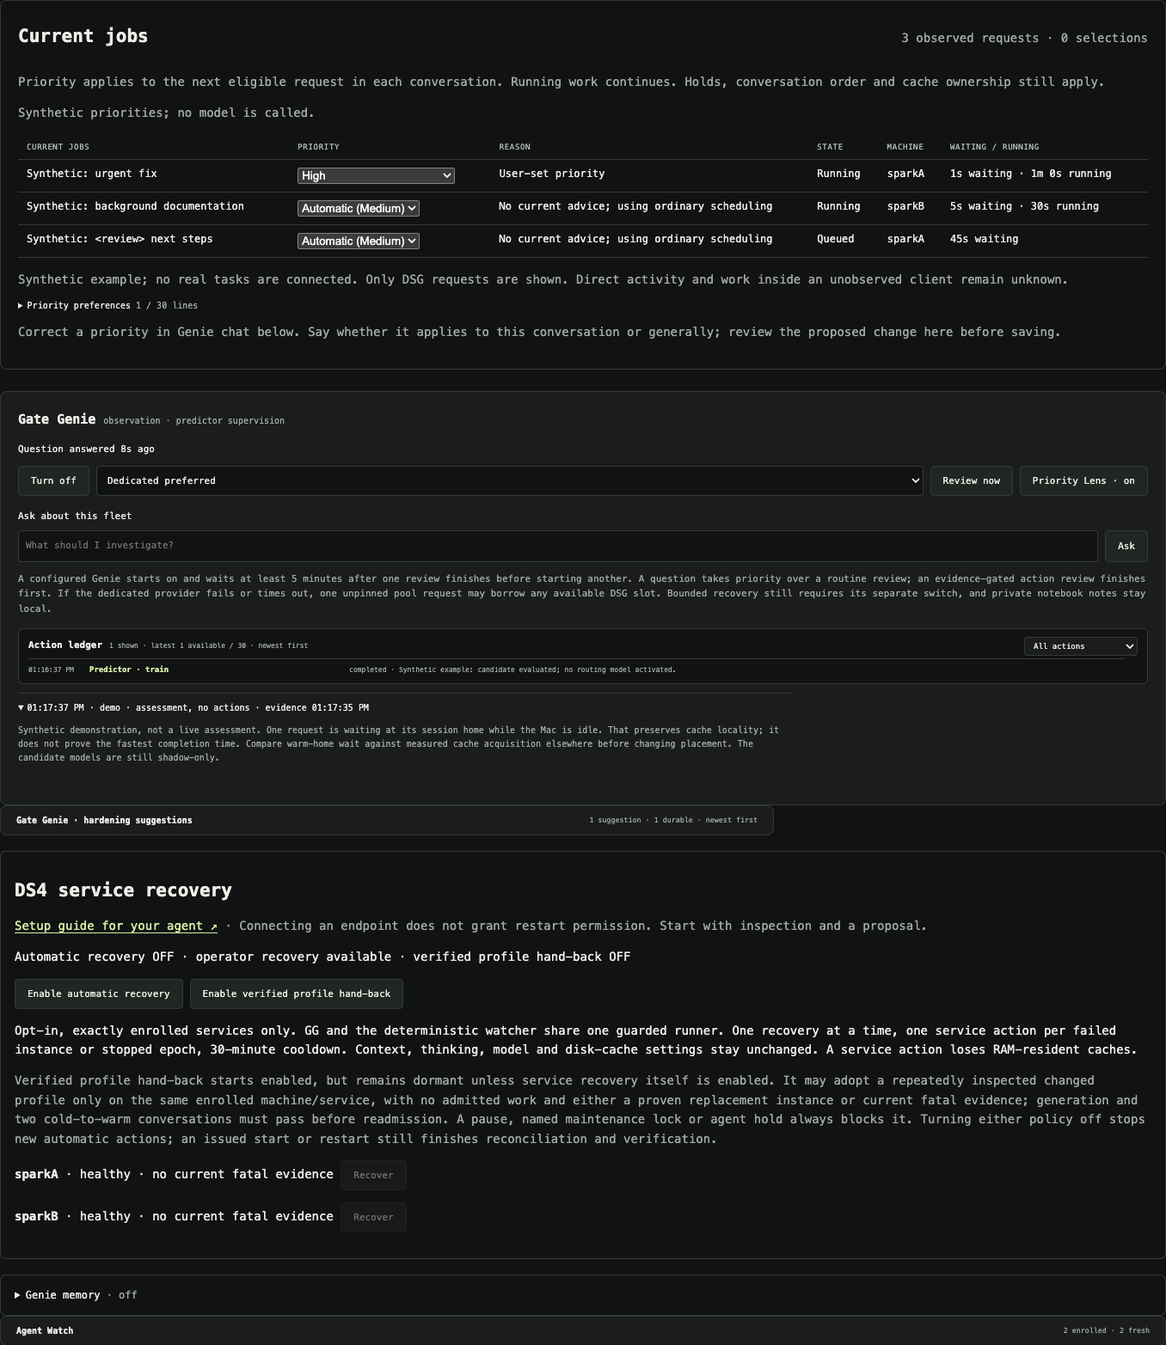
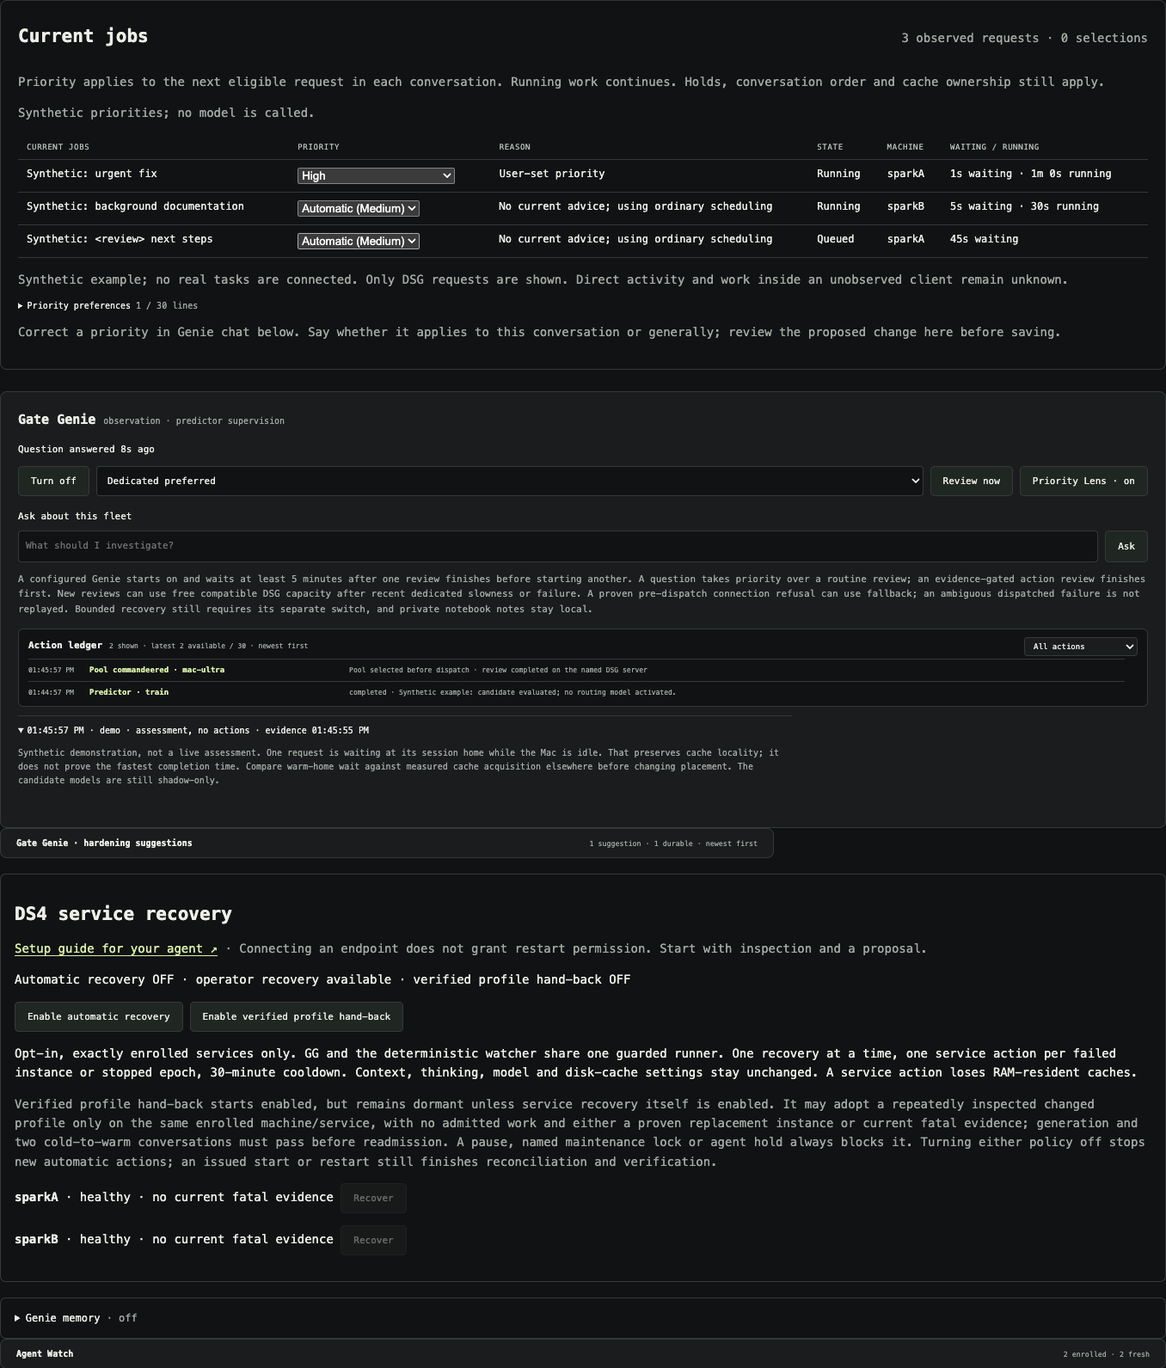
Assign new Genie reviews to available pool capacity safely

diff --git a/ds4-gateway/ui/index.html b/ds4-gateway/ui/index.html
@@ -36,7 +36,7 @@
 <section id="priority-correction" class="priority-correction" aria-labelledby="priority-correction-title" hidden><h3 id="priority-correction-title">Genie’s proposed correction</h3><p id="priority-correction-explanation"></p><div id="priority-correction-changes"></div><p id="priority-correction-status" class="muted"></p><div class="genie-controls"><button id="priority-correction-confirm" class="button" type="button">Confirm correction</button><button id="priority-correction-reply" class="button" type="button" hidden>Answer in Genie chat</button><button id="priority-correction-dismiss" class="button" type="button">Dismiss proposal</button></div></section>
 <p id="priority-message" role="status"></p>
 </section>
-<section class="insights genie-insights"><article class="genie-panel"><h2>Gate Genie <small id="genie-mode">observation only</small></h2><p id="genie-status" role="status">Checking connection</p><div class="genie-controls"><button id="genie-toggle" class="button" type="button" disabled>Enable</button><select id="genie-source" aria-label="Gate Genie inference source" disabled><option value="primary">Dedicated preferred</option><option value="pool">DSG pool only</option></select><button id="genie-review" class="button" type="button" disabled>Review now</button><button id="priority-toggle" class="button" type="button" disabled aria-pressed="false">Priority Lens · checking</button></div><form id="genie-chat"><label for="genie-question">Ask about this fleet</label><div class="genie-controls"><input id="genie-question" maxlength="2000" placeholder="What should I investigate?" autocomplete="off"><button id="genie-send" type="submit" class="button" disabled>Ask</button></div></form><p class="muted">A configured Genie starts on and waits at least 5 minutes after one review finishes before starting another. A question takes priority over a routine review; an evidence-gated action review finishes first. If the dedicated provider fails or times out, one unpinned pool request may borrow any available DSG slot. Bounded recovery still requires its separate switch, and private notebook notes stay local.</p><section id="genie-action-ledger" class="genie-action-ledger" aria-labelledby="genie-action-ledger-title" title="Proven executor receipts and provider fallbacks only. Recovery and predictor history is durable; queue history is bounded; provider fallback covers this dashboard run."><div class="genie-ledger-heading"><div><h3 id="genie-action-ledger-title">Action ledger</h3><p id="genie-action-summary" class="muted">No evidenced Genie actions yet</p></div><label><span class="visually-hidden">Filter Gate Genie actions</span><select id="genie-action-filter" aria-label="Filter Gate Genie actions"><option value="all">All actions</option><option value="provider">Pool commandeering</option><option value="recovery">Recovery</option><option value="routing">Queue moves</option><option value="predictor">Predictor</option><option value="attention">Needs attention</option></select></label></div><ol id="genie-action-items" class="genie-action-items" tabindex="0" aria-label="Latest 30 available Genie actions, newest first"><li class="muted">Waiting for action evidence.</li></ol></section><div id="genie-reports" aria-live="polite"></div></article></section>
+<section class="insights genie-insights"><article class="genie-panel"><h2>Gate Genie <small id="genie-mode">observation only</small></h2><p id="genie-status" role="status">Checking connection</p><div class="genie-controls"><button id="genie-toggle" class="button" type="button" disabled>Enable</button><select id="genie-source" aria-label="Gate Genie inference source" disabled><option value="primary">Dedicated preferred</option><option value="pool">DSG pool only</option></select><button id="genie-review" class="button" type="button" disabled>Review now</button><button id="priority-toggle" class="button" type="button" disabled aria-pressed="false">Priority Lens · checking</button></div><form id="genie-chat"><label for="genie-question">Ask about this fleet</label><div class="genie-controls"><input id="genie-question" maxlength="2000" placeholder="What should I investigate?" autocomplete="off"><button id="genie-send" type="submit" class="button" disabled>Ask</button></div></form><p class="muted">A configured Genie starts on and waits at least 5 minutes after one review finishes before starting another. A question takes priority over a routine review; an evidence-gated action review finishes first. New reviews can use free compatible DSG capacity after recent dedicated slowness or failure. A proven pre-dispatch connection refusal can use fallback; an ambiguous dispatched failure is not replayed. Bounded recovery still requires its separate switch, and private notebook notes stay local.</p><section id="genie-action-ledger" class="genie-action-ledger" aria-labelledby="genie-action-ledger-title" title="Proven executor receipts and provider fallbacks only. Recovery and predictor history is durable; queue history is bounded; provider fallback covers this dashboard run."><div class="genie-ledger-heading"><div><h3 id="genie-action-ledger-title">Action ledger</h3><p id="genie-action-summary" class="muted">No evidenced Genie actions yet</p></div><label><span class="visually-hidden">Filter Gate Genie actions</span><select id="genie-action-filter" aria-label="Filter Gate Genie actions"><option value="all">All actions</option><option value="provider">Pool commandeering</option><option value="recovery">Recovery</option><option value="routing">Queue moves</option><option value="predictor">Predictor</option><option value="attention">Needs attention</option></select></label></div><ol id="genie-action-items" class="genie-action-items" tabindex="0" aria-label="Latest 30 available Genie actions, newest first"><li class="muted">Waiting for action evidence.</li></ol></section><div id="genie-reports" aria-live="polite"></div></article></section>
 <details id="genie-hardening" class="genie-hardening" hidden><summary><span>Gate Genie · hardening suggestions</span><small id="genie-hardening-status">No evidence-backed suggestions yet</small></summary><p class="muted">Private developer hypotheses distilled from bounded DSG failure evidence. Newest first. They do not change routing, servers or configuration.</p><div id="genie-hardening-items" aria-live="polite"></div></details>
 <section class="worker-management" aria-labelledby="recovery-title"><h2 id="recovery-title">DS4 service recovery</h2>
 <p class="muted"><a id="recovery-enrollment-guide" href="https://github.com/JordiPosthumus/dwarf-star-gate/blob/main/docs/agent-recovery-enrollment.md" target="_blank" rel="noopener noreferrer">Setup guide for your agent ↗</a> · Connecting an endpoint does not grant restart permission. Start with inspection and a proposal.</p>

diff --git a/ds4-gateway/ui/ui.js b/ds4-gateway/ui/ui.js
@@ -771,10 +771,10 @@ function renderGenieReports(reports = []) {
 function genieActionRows(snapshot,genie,analytics) {
   const clean=value=>String(value??'').replaceAll('_',' ').replace(/\s+/g,' ').trim().slice(0,240);
   const rows=[];
-  for(const report of genie?.provider_actions??genie?.reports??[])if(report.served_by==='pool_fallback'&&Number.isFinite(report.time))rows.push({
+  for(const report of genie?.provider_actions??genie?.reports??[])if(['pool_fallback','pool_assigned'].includes(report.served_by)&&Number.isFinite(report.time))rows.push({
     id:`provider:${report.id}`,kind:'provider',at:report.time,level:'good',
     title:`Pool commandeered${report.served_on?` · ${clean(report.served_on)}`:''}`,
-    detail:`Dedicated provider unavailable · review completed${report.served_on?' on the named DSG server':' on an unpinned DSG slot; exact server unproven'}`
+    detail:`${report.served_by==='pool_assigned'?'Pool selected before dispatch':'Dedicated provider unavailable'} · review completed${report.served_on?' on the named DSG server':' on an unpinned DSG slot; exact server unproven'}`
   });
   for(const op of snapshot?.gateway?.recovery?.operations??[])if(op.actor==='genie'&&Number.isFinite(op.updated_at??op.created_at)){
     const state=clean(op.state),good=['recovered','verified paused'].includes(state),attention=['failed','reconciliation needed'].includes(state);
@@ -798,7 +798,7 @@ function renderGenieActionLedger() {
   const rows=genieActionRows(wireSnapshot,genieState,analyticsState),filter=$('genie-action-filter')?.value??'all';
   const visible=rows.filter(row=>filter==='all'?true:filter==='attention'?row.level==='attention':row.kind===filter),attention=rows.filter(row=>row.level==='attention').length;
   $('genie-action-summary').textContent=rows.length?`${visible.length} shown · latest ${rows.length} available / 30 · newest first${attention?` · ${attention} need attention`:''}`:'No evidenced Genie actions yet';
-  const storageError=genieState?.provider_action_storage?.error;
+  const storageError=genieState?.provider_action_storage?.error||genieState?.provider_assignment_storage?.error;
   if(storageError)$('genie-action-summary').textContent+=' · pool history not saved';
   $('genie-action-summary').title=storageError?'Pool action storage needs attention; new receipts remain session-only. Inspect Genie status. Nothing was deleted.':'';
   const signature=JSON.stringify([filter,visible]);if(signature===genieLedgerSignature)return;
@@ -926,9 +926,9 @@ async function genieAction(input) {
 async function loadGenie() {
   try {const r=await fetch('/api/genie',{signal:AbortSignal.timeout(5000)});if(!r.ok)throw new Error();const s=await r.json();genieToken=s.csrf_token;genieState=s;wireState={...s.ticker,provider_attempts:s.provider_attempts};
     if(wireSnapshot)renderHealthWire(wireSnapshot);
-    const now=Date.now(),activeProvider=s.active_provider==='pool_fallback'?'DSG pool fallback':s.active_provider==='pool'?'DSG pool':'dedicated provider',providerProgress=s.busy&&s.provider_started_at?`${activeProvider} · ${age(s.provider_started_at,now)} elapsed${s.provider_deadline_at?` · deadline in ${remaining(s.provider_deadline_at,now)}`:''}`:null;
+    const now=Date.now(),activeProvider=s.active_provider==='pool_fallback'?'DSG pool fallback':['pool','pool_assigned'].includes(s.active_provider)?'DSG pool':'dedicated provider',providerProgress=s.busy&&s.provider_started_at?`${activeProvider} · ${age(s.provider_started_at,now)} elapsed${s.provider_deadline_at?` · deadline in ${remaining(s.provider_deadline_at,now)}`:''}`:null;
     const q=s.question,qtext=q?.state==='queued'?(s.review_kind==='action'?'Your question is queued behind an evidence-gated action review':'Your question is queued; a routine review is being yielded'):q?.state==='answering'?`Answering your question · ${providerProgress??'provider starting…'}`:q?.state==='answered'?`Question answered ${age(q.finished_at,now)}`:['failed','cancelled'].includes(q?.state)?`Question ${q.state}: ${q.error}`:null;
-    const provider=s.last_served_by==='pool_fallback'?' · dedicated provider failed; last review borrowed a DSG pool slot':s.last_served_by==='pool'?' · last review used the DSG pool':s.last_served_by==='dedicated'?' · last review used the dedicated provider':'';
+    const provider=s.last_served_by==='pool_assigned'?' · last review was assigned to free DSG capacity before dispatch':s.last_served_by==='pool_fallback'?' · last review used fallback after a proven connection refusal':s.last_served_by==='pool'?' · last review used the DSG pool':s.last_served_by==='dedicated'?' · last review used the dedicated provider':'';
     const attempts=(s.provider_attempts||[]).slice(0,s.error&&s.fallback_available?2:1),attemptText=attempts.length?` · ${attempts.map(attempt=>`${attempt.provider.replaceAll('_',' ')} ${attempt.outcome}${attempt.reason?` (${attempt.reason.replaceAll('_',' ')})`:''}`).join(' · ')}`:'';
     $('genie-status').textContent=!s.configured?'Not configured':!s.enabled?'Off · enable Gate Genie before asking':qtext||(s.error?`${s.error}${attemptText}`:(s.busy?`Scheduled fleet review · ${providerProgress??'provider starting…'}`:`Enabled · last review ${age(s.last_check,now)}${provider}${attemptText}`));
     $('genie-mode').textContent=[s.action_supervision?'evidence-gated actions':'observation',s.predictor_supervision?'predictor supervision':''].filter(Boolean).join(' · ');

diff --git a/docs/observer.md b/docs/observer.md
@@ -116,8 +116,12 @@ copy is hidden from screen readers.
 In the web UI, open the **Gate Genie** tab. **Enable** /
 **Turn off** controls the observer. The source dropdown chooses a dedicated-first
 policy or explicit DSG-pool use; it does not edit endpoint addresses. In dedicated-
-first mode, an explicit connection, HTTP, timeout or malformed-answer failure
-causes one attempt through the configured pool fallback. With no `genie.url`, DSG
+first mode, a new review can select fresh, free compatible DSG capacity when a
+recent dedicated attempt failed or took at least 60 seconds. Up to 16 attempt
+records are kept in memory; dedicated evidence expires after 30 minutes, so it
+survives the normal five-minute review cadence. A positively witnessed TCP refusal
+before connecting can still use the configured fallback. Timeouts, resets, HTTP
+errors and malformed answers are not non-dispatch proof and do not trigger replay. With no `genie.url`, DSG
 uses its own pool by default and Gate Genie starts enabled; no extra bot framework
 or endpoint is required. An explicitly configured dedicated endpoint automatically
 gets a bounded pool fallback unless `genie.fallback` overrides it. There is no URL/model/
@@ -132,7 +136,9 @@ two hours so long local reasoning is not mistaken for failure. Set an endpoint's
 `timeout_ms` from 1,000 through 86,400,000 milliseconds only when its hardware
 needs a different budget. The UI separately shows elapsed time and actual remaining
 allowance; it does not format a future deadline as an elapsed timestamp. A timeout
-counts as an explicit attempt failure and permits the single configured fallback.
+counts as a failed attempt with unknown backend completion; it does not permit
+a duplicate review. A subsequent new review uses fresh evidence and may select
+available pool capacity before dispatch.
 Genie inference uses a loopback-only streaming HTTP transport whose sole deadline
 is that configured allowance. It does not inherit Node's shorter built-in Fetch
 response-header deadline, so a legitimate long DS4 queue or prefill cannot defeat
@@ -184,15 +190,16 @@ in status, diagnostics or the training dataset. Turning Genie off cancels a
 queued question. A dashboard restart cannot preserve unsent question text.
 
 Status includes the sanitized attempts for the current or latest review: dedicated,
-pool or pool fallback; start/finish times; `complete`, `failed` or `cancelled`;
+pool, pre-dispatch pool assignment or proven-refusal pool fallback; start/finish times; `complete`, `failed` or `cancelled`;
 and a fixed reason category. It never includes endpoint details, credentials,
 prompts, raw responses or raw transport errors. This makes a slow provider,
 explicit fallback and failed review distinguishable without granting new powers.
 
 The same tab has a compact, reverse-chronological **Action ledger** with filters
 for pool commandeering, recovery, queue moves, predictor work and items needing
-attention. “Pool commandeering” means a dedicated-provider attempt failed and a
-completed review was proven to have used the unpinned DSG fallback; the server is
+attention. Pool rows distinguish a new review assigned before dispatch from a
+completed dedicated-provider fallback. Historical fallback rows retain their old
+meaning; they are not retroactively treated as proof of non-dispatch. The server is
 named only when the gateway returned a validated `x-ds4-node` receipt. Recovery
 and predictor rows come from their durable executor journals, queue moves from
 the bounded recent evidence reader, and completed provider fallbacks from a private
@@ -205,12 +212,16 @@ across these feeds, newest first, with filters over that window. Its count is
 explicitly available history, not a lifetime total. Recovery/predictor status
 exposes up to 30 recent receipts per feed; other actors can occupy those source
 windows before the ledger filters them out. The dashboard separately keeps 30
-small completed pool-fallback receipts so rotating full review text does not
-erase recent fallback history. These receipts now survive dashboard restarts in
+small completed pool receipts so rotating full review text does not
+erase recent provider history. These receipts now survive dashboard restarts in
 `genie/actions/pool-actions.jsonl` beside runtime state: report UUID, completion
 time, fallback kind and an observed worker ID (or unknown). Full reviews, questions,
 endpoints and action offers are never restored from this journal. This is an
 operational receipt log, separate from the optional memory notebook and its toggle.
+New `pool_assigned` receipts use a separate `pool-assignments.jsonl` file. The
+original fallback file is not rewritten or given new record kinds, preserving
+its readability by the older release. Both files retain their independent
+bounded storage and protective writer checks; the UI combines the latest 30 rows.
 
 The directory/file are mode 0700/0600. Appends are exclusive-writer guarded and
 file/directory-synced; readers reject corrupt tails, duplicate IDs and unsafe
@@ -246,16 +257,30 @@ own requests, **not production server defaults or limits on user requests**. A
 budget-exhausted answer is reported incomplete, never presented as a finished
 assessment. Existing server context, output settings and caches are unchanged.
 
-The source selector chooses dedicated-first or normal DSG-pool-only operation.
-Pool requests are deliberately unpinned: a Genie review contains its complete
-bounded live briefing, so any available DS4 server may serve it. It competes for
-one normal inference slot; first/unaffined queued-handover rules can move that
-still-undispatched call to a newly free server. Pool calls receive no private
-Genie notebook history. If the dedicated attempt fails explicitly, DSG makes one
-pool attempt and marks the report `pool_fallback`; it never combines partial model
-answers or processes actions from a failed attempt. If both fail, no report or
-action is accepted. Off cancels the local review connection; that alone does not
-prove backend execution stopped.
+The source selector chooses dedicated-preferred or DSG-pool-only operation.
+Pool requests remain unpinned and receive no private Genie notebook history.
+Fast assignment uses the exact configured DSG pool URL, matching model, fresh
+status no older than six seconds, and a healthy free worker without holds,
+quarantine or recovery. It never treats an arbitrary custom fallback as this
+known pool. Explicit pool selection retains ordinary queuing when necessary.
+
+A compatible core advertises `genie_flexible_assignment`. New ordinary Genie pool
+reviews then keep their original socket and unread body in the existing bounded
+waiting lane until a compatible worker is free. A worker pause and earlier
+assigned work remain authoritative; a cancellation removes the pending review.
+This handles a free-slot race without failing the question or reissuing its body.
+Older cores keep the prior queue behavior. The separate short Priority Lens
+classifier still uses atomic no-wait admission and abstains if capacity is busy.
+
+A `pool_assigned` report identifies a new review selected before dispatch.
+`pool_fallback` is used only after the transport witnesses a fresh TCP socket
+refusing connection before it ever connected. Partial answers and actions from a
+failed attempt are never combined with another attempt. Off cancels the local
+connection; that alone does not prove backend execution stopped.
+
+These are local source and fixture guarantees, not a claim that an existing live
+dashboard has been upgraded. Provider deadlines, output/reasoning settings,
+server configurations, cache ownership and normal request deadlines are unchanged.
 
 This is a question + fresh-briefing interface, optionally augmented by bounded
 notebook history, not a persistent multi-turn agent conversation. Twelve recent assessments live in memory and are

diff --git a/docs/priority-lens.md b/docs/priority-lens.md
@@ -76,7 +76,7 @@ opt-in to stop client-side capture/transmission entirely.
 
 The dashboard classifier requires local management capability and enabled Genie.
 It checks fresh available pool capacity before claiming work. A busy dedicated
-Genie or a recent measured dedicated failure/long review can select the free
+Genie or a measured dedicated failure/long review within 30 minutes can select the free
 compatible pool for this new advisory request. A core admission check refuses
 pool classification if the slot has become busy in the meantime. The review is
 not placed behind user work and is never replayed on another provider after an
@@ -84,8 +84,9 @@ ambiguous dispatched attempt.
 
 A core-owned lease rejects replies at **60 seconds**, independently of the
 classifier's own deadline. Inference adds **zero normal wait** for this advice.
-Normal Genie review deadlines, model settings and fallback behavior are not
-changed by this separate classifier. Its status keeps bounded outcome/timing
+Normal Genie review deadlines and model settings are not changed by this separate
+classifier. Ordinary Genie now has its own [fast assignment](observer.md) path
+for new reviews; ambiguous dispatched failures are not replayed. Its status keeps bounded outcome/timing
 metadata, never its model input or response.
 
 The preference editor stores up to 30 explicitly saved single-line rules, each

diff --git a/WORKLOG.md b/WORKLOG.md
@@ -21,6 +21,12 @@ For unfinished work, see the [roadmap](docs/roadmap.md).
   consolidation shows exact removals/additions; clarification, expiry and stale
   revision checks prevent a vague or old suggestion from silently changing policy.
 
+- **Added fast assignment for new Genie reviews.** Recent dedicated slowness or
+  failure can send a new review to free compatible pool capacity. Pending pool
+  reviews keep one socket and body until a worker is free; ambiguous dispatched
+  failures do not cause a duplicate review. Two-hour deadlines remain intact,
+  and new assignment receipts use a separate file to preserve old history.
+
 - **Moved hardening suggestions into Gate Genie.** Suggestions now sit below the
   conversation in their existing collapsible section, freeing space above every
   other tab. Newest-first ordering and saved notes retain their existing behavior.

diff --git a/CHANGELOG.md b/CHANGELOG.md
@@ -1,5 +1,16 @@
 # Changelog
 
+## Assign new Genie reviews quickly without ambiguous replay
+
+- Prefer fresh free compatible pool capacity after recent dedicated slowness or
+  failure, using bounded timing history that survives the review cadence.
+- Keep undispatched pool reviews flexible in the core waiting lane with their
+  original body/socket/deadlines; preserve holds, active work and cancellation.
+- Permit fallback only after a witnessed never-connected TCP refusal. Preserve
+  provider deadlines, model settings and existing explicit pool queue capability.
+- Keep completed pre-dispatch assignment receipts in a separate journal so older
+  fallback history remains readable. Add native transport and dispatch fixtures.
+
 ## Review and confirm priority corrections from Genie chat
 
 - Let manual chat questions propose conversation-only priorities or explicit

diff --git a/docs/screenshots.md b/docs/screenshots.md
@@ -23,7 +23,7 @@ screenshots, benchmark results, a live incident report or a promoted model.
   showing exact removal/addition before confirmation; no live policy change.
 - `priority-settings.png`: bounded weight controls and an explicitly selected
   synthetic ten-minute eligible-wait backstop; this is not a production default.
-- `dashboard-genie.png`: current jobs and manual priorities, an open assessment, collapsible hardening suggestions below
+- `dashboard-genie.png`: current jobs and manual priorities, a synthetic pre-dispatch pool assignment receipt, an open assessment, collapsible hardening suggestions below
   the conversation, linked agent enrollment guide, recovery controls and the private
   Gate Genie notebook.
 - `dashboard-analytics.png`: local collection/embedding status, stage-specific XGB
